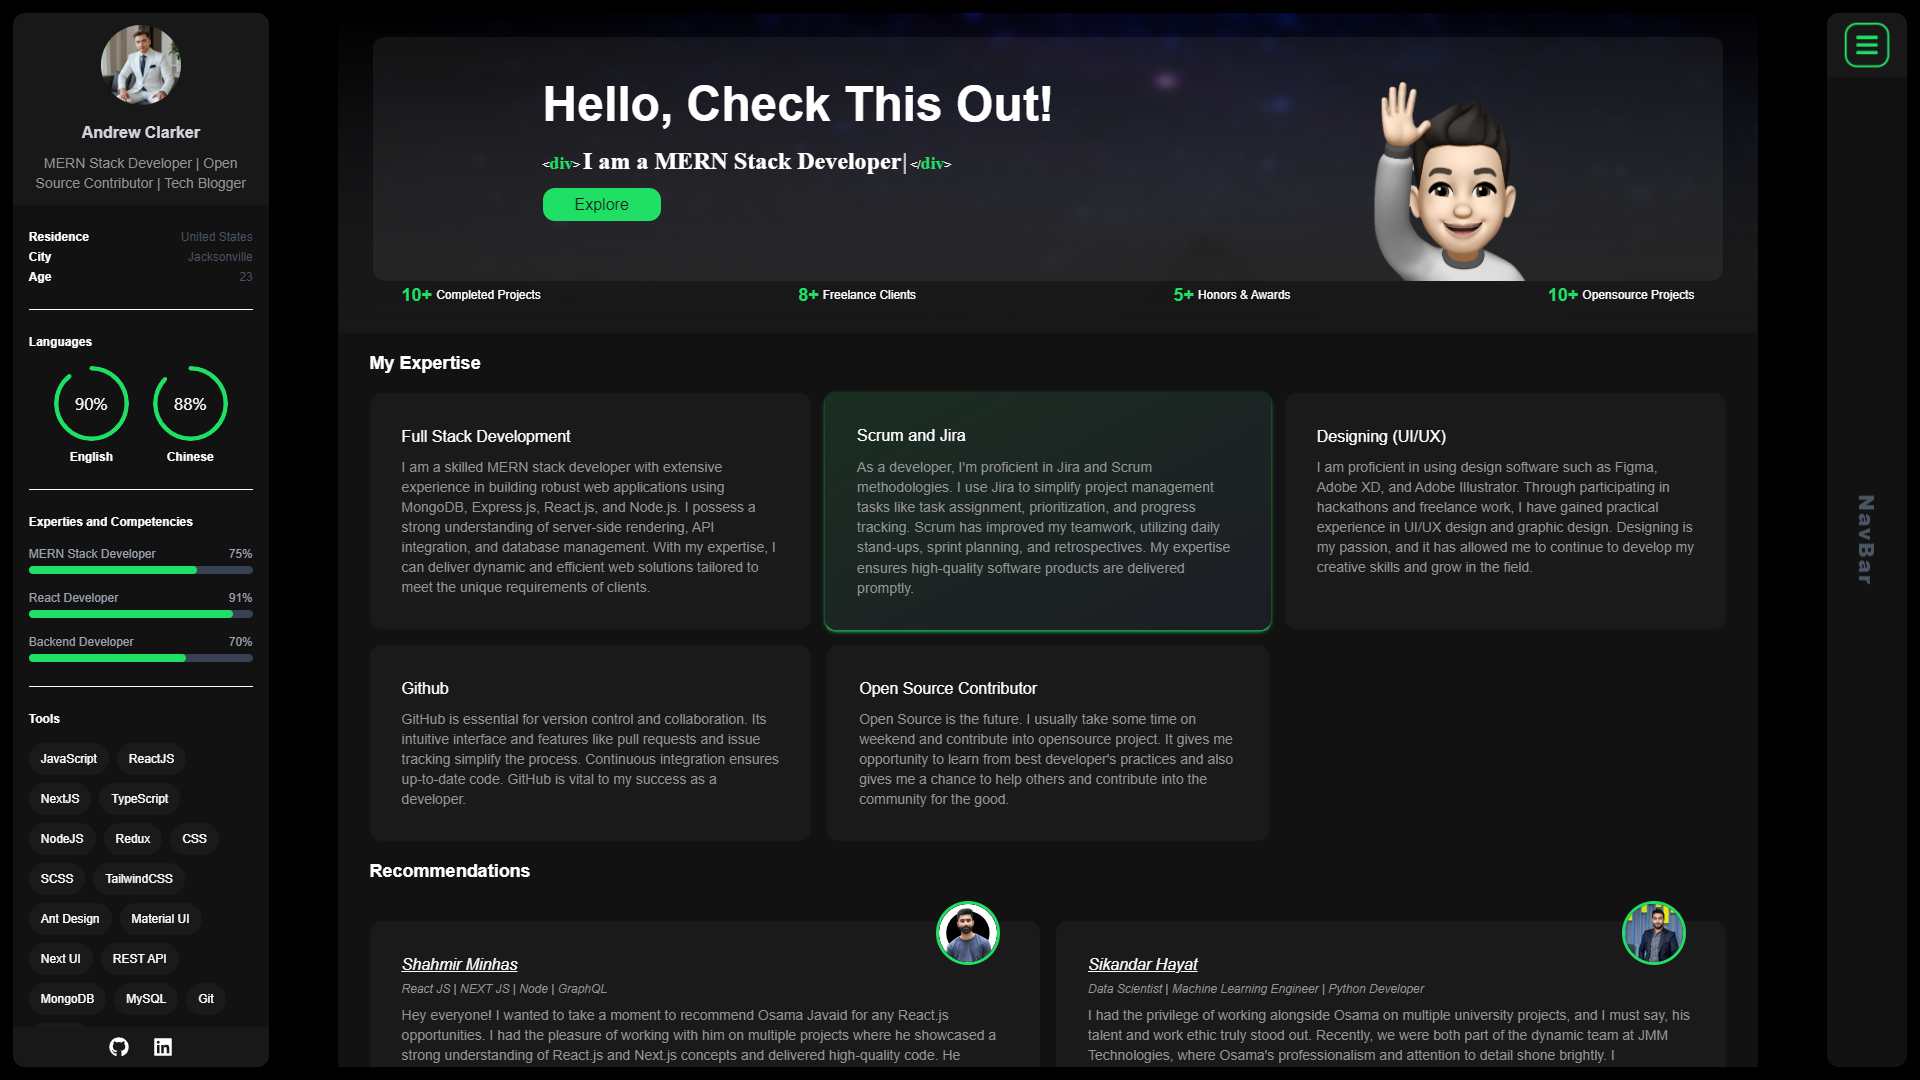
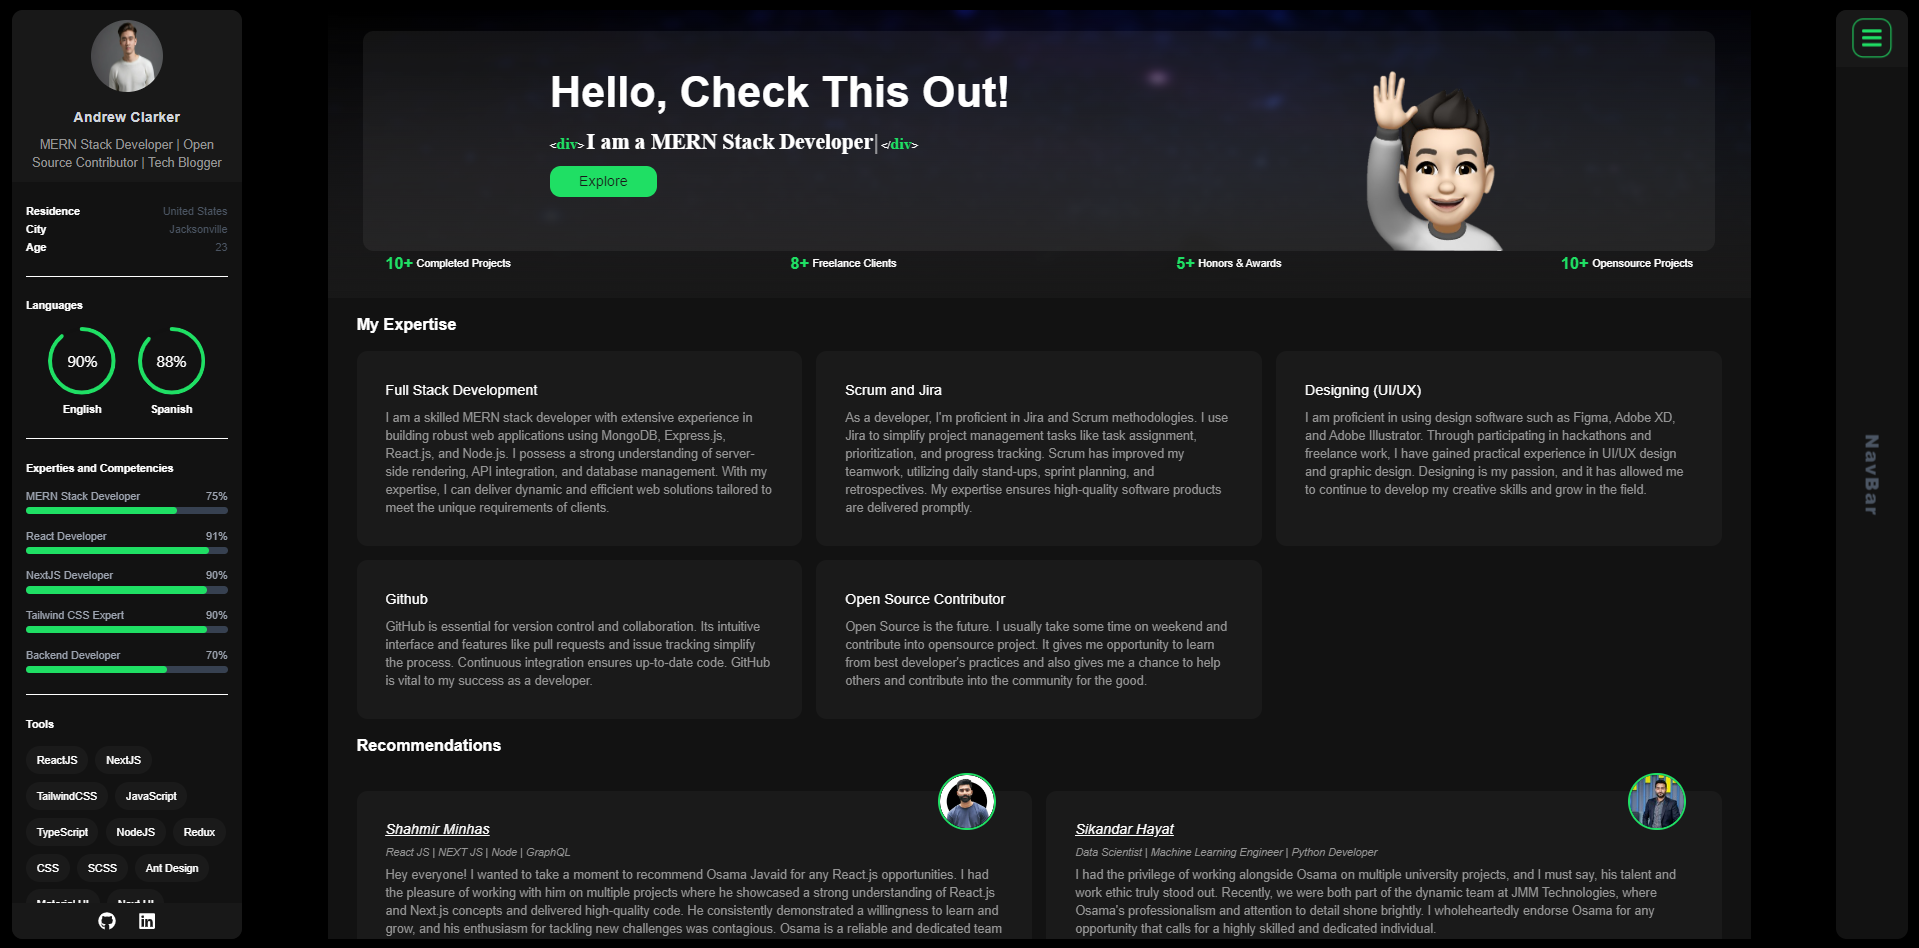
updated

diff --git a/components/Common/Intro/Languages.jsx b/components/Common/Intro/Languages.jsx
@@ -2,7 +2,7 @@ import { Progress } from "antd"
 import { useEffect, useState } from "react"
 
 const Languages = () => {
-    const [chinese, setChinese] = useState(0)
+    const [spanish, setSpainish] = useState(0)
     const [english, setEnglish] = useState(0)
 
     useEffect(() => {
@@ -10,13 +10,13 @@ const Languages = () => {
             if (english < 90) {
                 setEnglish(prevCount => prevCount + 1);
             }
-            if (chinese < 88) {
-                setChinese(prevCount => prevCount + 1);
+            if (spanish < 88) {
+                setSpainish(prevCount => prevCount + 1);
             }
         }, 30);
 
         return () => clearInterval(timer);
-    }, [chinese, english])
+    }, [spanish, english])
     return (
         <div className="flex flex-col space-y-1 pt-6">
             <div className="flex flex-col gap-y-4">
@@ -27,8 +27,8 @@ const Languages = () => {
                         <span className='text-xs font-bold text-Snow'>English</span>
                     </div>
                     <div className="flex flex-col items-center justify-center gap-y-2">
-                        <Progress strokeColor="#1fdf64" type="circle" percent={chinese} size={75} />
-                        <span className='text-xs font-bold text-Snow'>Chinese</span>
+                        <Progress strokeColor="#1fdf64" type="circle" percent={spanish} size={75} />
+                        <span className='text-xs font-bold text-Snow'>Spanish</span>
                     </div>
                 </div>
             </div>

diff --git a/constants/constants.js b/constants/constants.js
@@ -17,31 +17,30 @@ export const SKILLS = [
     title: 'React Developer',
     level: '91%',
   },
-  // {
-  //   title: 'Desktop Application Developer',
-  //   level: '75%',
-  // },
+  {
+    title: 'NextJS Developer',
+    level: '90%',
+  },
+  {
+    title: 'Tailwind CSS Expert',
+    level: '90%',
+  },
   {
     title: 'Backend Developer',
     level: '70%',
   },
-  // {
-  //   title: 'Technical Blogger',
-  //   level: '83%',
-  // },
 ];
 
 export const TECH_STACK = [
-  'JavaScript',
   'ReactJS',
   'NextJS',
+  'TailwindCSS',
+  'JavaScript',
   'TypeScript',
   'NodeJS',
   'Redux',
-  // 'Zustand',
   'CSS',
   'SCSS',
-  'TailwindCSS',
   'Ant Design',
   'Material UI',
   'Next UI',
@@ -49,10 +48,7 @@ export const TECH_STACK = [
   'MongoDB',
   'MySQL',
   'Git',
-  'GitHub',
-  // 'Jira',
-  // 'Figma',
-  // 'Adobe XD',
+  'GitHub'
 ];
 
 export const CONTACTS = {
@@ -60,7 +56,7 @@ export const CONTACTS = {
   PHONE: '+923159591822',
 };
 export const SOCIAL_LINKS = {
-  GITHUB: 'https://github.com/andrewclarker',
+  GITHUB: 'https://github.com/AndrewClarker0524',
   LINKEDIN: 'https://www.linkedin.com/in/iandrewclarker/',
   TWITTER: 'https://twitter.com/iandrewclarker',
   FACEBOOK: 'https://www.facebook.com/iandrewclarker',

diff --git a/pages/contact.jsx b/pages/contact.jsx
@@ -90,7 +90,7 @@ const Contact = () => {
                                     <div id="icon" className="absolute inset-y-0 left-0 flex items-center text-xl pl-3 pointer-events-none">
                                         <HiMail />
                                     </div>
-                                    <input type="text" className="input_stylings" placeholder="Email" onChange={(e) => { setSendEmail(e.target.values) }} />
+                                    <input type="text" className="input_stylings" placeholder="Email" onChange={(e) => { setSendEmail(e.target.value) }} />
                                 </div>
                             </div>
 

diff --git a/components/HomeComponents/Banner.jsx b/components/HomeComponents/Banner.jsx
@@ -20,7 +20,7 @@ const Banner = () => {
                                                 options={{
                                                     strings:
                                                         ['MERN Stack Developer',
-                                                            'NexJs Developer'],
+                                                            'NextJs & Tailwind CSS Expert'],
                                                     autoStart: true,
                                                     loop: true,
                                                 }}

diff --git a/components/Common/Intro/index.jsx b/components/Common/Intro/index.jsx
@@ -37,12 +37,6 @@ const Intro = () => {
         <Link href={SOCIAL_LINKS.GITHUB} target='_blank' rel='noreferrer' className=''>
           <FaGithub />
         </Link>
-        {/* <Link href={SOCIAL_LINKS.TWITTER} target='_blank' rel='noreferrer' className=''>
-          <FaTwitter />
-        </Link> */}
-        {/* <Link href={SOCIAL_LINKS.FACEBOOK} target='_blank' rel='noreferrer' className=''>
-          <FaFacebook />
-        </Link> */}
         <Link href={SOCIAL_LINKS.LINKEDIN} target='_blank' rel='noreferrer' className=''>
           <FaLinkedin />
         </Link>

diff --git a/README.md b/README.md
@@ -37,13 +37,13 @@ To run **portfolio** locally, run this command on your git bash:
 Linux and macOS:
 
 ```bash
-sudo git clone https://github.com/AndrewClarker/AndrewClarker-next.js.git
+sudo git clone https://github.com/AndrewClarker0524/AndrewClarker-nextjs.git
 ```
 
 Windows:
 
 ```bash
-git clone https://github.com/AndrewClarker/AndrewClarker-next.js.git
+git clone https://github.com/AndrewClarker0524/AndrewClarker-nextjs.git
 ```
 
 ### Contact
